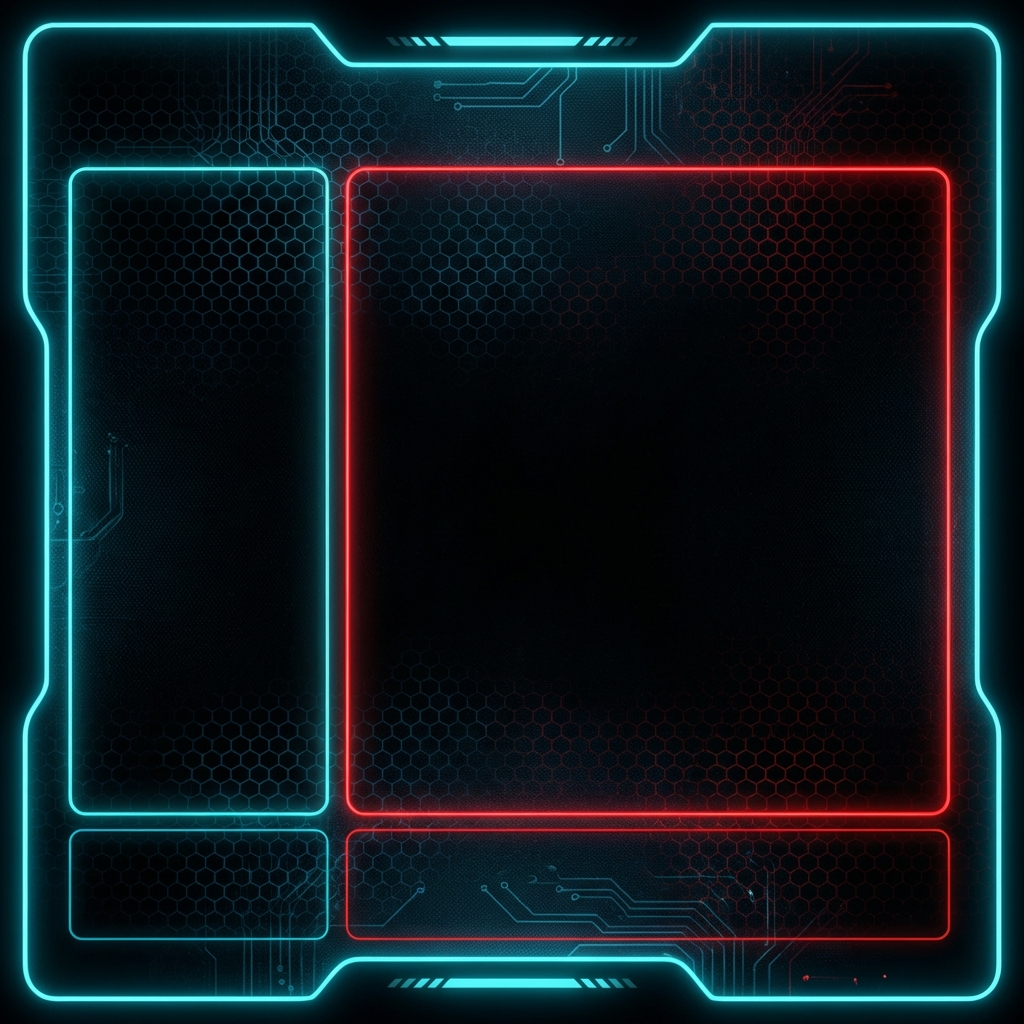
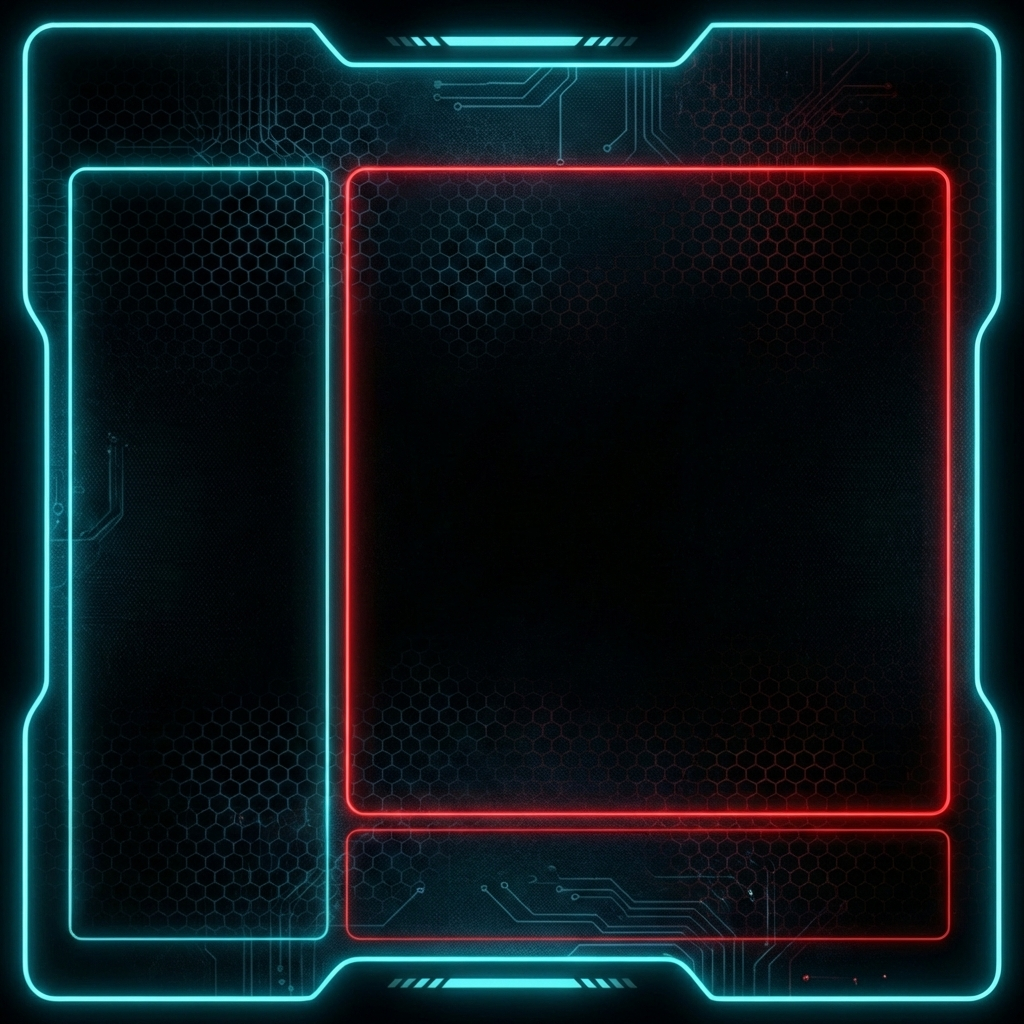
Minor fixes to rds element placement.  Removed the driver search for now as no matter how hard we tried we could only get it to show up after inspecting it with the developer tools

Changed region(s): [[0.0625, 0.7812, 0.3438, 0.9375]]

diff --git a/client/src/app/components/raceday-setup/raceday-setup.component.html b/client/src/app/components/raceday-setup/raceday-setup.component.html
@@ -27,10 +27,11 @@
                 <!-- Selected Drivers (Draggable) -->
                 <div *ngIf="selectedDrivers.length > 0" class="section-divider">Racing</div>
 
-                <div *ngFor="let driver of selectedDrivers" class="driver-item selected" cdkDrag>
+                <div *ngFor="let driver of selectedDrivers; let i = index" class="driver-item selected" cdkDrag>
                     <div class="checkbox" (click)="toggleDriverSelection(driver, true)">
                         <div class="checkbox-icon">✓</div>
                     </div>
+                    <div class="driver-seed">({{ i + 1 }})</div>
                     <div class="driver-avatar">
                         <!-- Placeholder Avatar -->
                         <svg width="20" height="20" viewBox="0 0 24 24" fill="#ccc">
@@ -67,10 +68,6 @@
                     </div>
                 </div>
 
-            </div>
-
-            <div class="search-bar">
-                <input type="text" class="search-input" placeholder="Search drivers..." [(ngModel)]="driverSearchQuery">
             </div>
         </div>
 

diff --git a/client/src/app/components/raceday-setup/raceday-setup.component.css b/client/src/app/components/raceday-setup/raceday-setup.component.css
@@ -197,7 +197,7 @@
 /* --- Driver Panel (Left) - BLUE Framing --- */
 .driver-panel {
   width: 360px;
-  height: 820px;
+  height: 650px;
   flex-shrink: 0;
   border: none;
   box-shadow: none;
@@ -216,8 +216,6 @@
 .search-bar {
   padding: 15px 10px;
   border-top: 1px solid rgba(255, 255, 255, 0.1);
-  margin-top: 40px;
-  /* This gap pushes it into the bottom frame */
   height: 80px;
   display: flex;
   align-items: center;
@@ -235,8 +233,6 @@
 
 .driver-list-container {
   flex: 1;
-  height: 550px;
-  /* Fixed height for the top box area */
   overflow-y: auto;
   padding: 10px;
 }
@@ -298,6 +294,15 @@
   color: #000;
   font-size: 14px;
   font-weight: bold;
+}
+
+.driver-seed {
+  min-width: 25px;
+  text-align: center;
+  color: #888;
+  margin-right: 8px;
+  font-size: 16px;
+  font-weight: 600;
 }
 
 .driver-avatar {
@@ -480,7 +485,7 @@
   border: 1px solid #00f0ff;
   border-radius: 6px;
   box-shadow: 0 10px 30px rgba(0, 0, 0, 0.8), 0 0 20px rgba(0, 240, 255, 0.2);
-  max-height: 250px;
+  max-height: 185px;
   overflow-y: auto;
   z-index: 101;
 }

diff --git a/server/src/main/java/com/antigravity/service/DatabaseService.java b/server/src/main/java/com/antigravity/service/DatabaseService.java
@@ -34,14 +34,43 @@ public class DatabaseService {
         resetSequence(database, "drivers");
 
         List<Driver> initialDrivers = new ArrayList<>();
-        initialDrivers.add(new Driver("Abby", "Angel", getNextSequence(database, "drivers"), null));
-        initialDrivers.add(new Driver("Andrea", "The Pants", getNextSequence(database, "drivers"), null));
-        initialDrivers.add(new Driver("Austin", "Fart Goblin", getNextSequence(database, "drivers"), null));
-        initialDrivers.add(new Driver("Christine", "Peo Fuente", getNextSequence(database, "drivers"), null));
-        initialDrivers.add(new Driver("Dave", "Olden McGroin", getNextSequence(database, "drivers"), null));
-        initialDrivers.add(new Driver("Gene", "Swamper Gene", getNextSequence(database, "drivers"), null));
-        initialDrivers.add(new Driver("Meyer", "Bull Dog", getNextSequence(database, "drivers"), null));
-        initialDrivers.add(new Driver("Noah Jack", "Boy Wonder", getNextSequence(database, "drivers"), null));
+        // initialDrivers.add(new Driver("Abby", "Angel", getNextSequence(database,
+        // "drivers"), null));
+        // initialDrivers.add(new Driver("Andrea", "The Pants",
+        // getNextSequence(database, "drivers"), null));
+        // initialDrivers.add(new Driver("Austin", "Fart Goblin",
+        // getNextSequence(database, "drivers"), null));
+        // initialDrivers.add(new Driver("Christine", "Peo Fuente",
+        // getNextSequence(database, "drivers"), null));
+        // initialDrivers.add(new Driver("Dave", "Olden McGroin",
+        // getNextSequence(database, "drivers"), null));
+        // initialDrivers.add(new Driver("Gene", "Swamper Gene",
+        // getNextSequence(database, "drivers"), null));
+        // initialDrivers.add(new Driver("Meyer", "Bull Dog", getNextSequence(database,
+        // "drivers"), null));
+        // initialDrivers.add(new Driver("Noah Jack", "Boy Wonder",
+        // getNextSequence(database, "drivers"), null));
+
+        initialDrivers.add(new Driver("Driver 01", "Driver 01", getNextSequence(database, "drivers"), null));
+        initialDrivers.add(new Driver("Driver 02", "Driver 02", getNextSequence(database, "drivers"), null));
+        initialDrivers.add(new Driver("Driver 03", "Driver 03", getNextSequence(database, "drivers"), null));
+        initialDrivers.add(new Driver("Driver 04", "Driver 04", getNextSequence(database, "drivers"), null));
+        initialDrivers.add(new Driver("Driver 05", "Driver 05", getNextSequence(database, "drivers"), null));
+        initialDrivers.add(new Driver("Driver 06", "Driver 06", getNextSequence(database, "drivers"), null));
+        initialDrivers.add(new Driver("Driver 07", "Driver 07", getNextSequence(database, "drivers"), null));
+        initialDrivers.add(new Driver("Driver 08", "Driver 08", getNextSequence(database, "drivers"), null));
+        initialDrivers.add(new Driver("Driver 09", "Driver 09", getNextSequence(database, "drivers"), null));
+        initialDrivers.add(new Driver("Driver 10", "Driver 10", getNextSequence(database, "drivers"), null));
+        initialDrivers.add(new Driver("Driver 11", "Driver 11", getNextSequence(database, "drivers"), null));
+        initialDrivers.add(new Driver("Driver 12", "Driver 12", getNextSequence(database, "drivers"), null));
+        initialDrivers.add(new Driver("Driver 13", "Driver 13", getNextSequence(database, "drivers"), null));
+        initialDrivers.add(new Driver("Driver 14", "Driver 14", getNextSequence(database, "drivers"), null));
+        initialDrivers.add(new Driver("Driver 15", "Driver 15", getNextSequence(database, "drivers"), null));
+        initialDrivers.add(new Driver("Driver 16", "Driver 16", getNextSequence(database, "drivers"), null));
+        initialDrivers.add(new Driver("Driver 17", "Driver 17", getNextSequence(database, "drivers"), null));
+        initialDrivers.add(new Driver("Driver 18", "Driver 18", getNextSequence(database, "drivers"), null));
+        initialDrivers.add(new Driver("Driver 19", "Driver 19", getNextSequence(database, "drivers"), null));
+        initialDrivers.add(new Driver("Driver 20", "Driver 20", getNextSequence(database, "drivers"), null));
 
         driverCollection.insertMany(initialDrivers);
         System.out.println("Drivers reset.");
@@ -119,6 +148,44 @@ public class DatabaseService {
         race = new Race("Practice", track.getEntityId(), HeatRotationType.RoundRobin,
                 scoring, getNextSequence(database, "races"), null);
 
+        raceCollection.insertOne(race);
+
+        scoring = new com.antigravity.models.RaceScoring(
+                com.antigravity.models.RaceScoring.FinishMethod.Lap,
+                15,
+                com.antigravity.models.RaceScoring.HeatRanking.LAP_COUNT,
+                com.antigravity.models.RaceScoring.HeatRankingTiebreaker.FASTEST_LAP_TIME);
+
+        // Now just a bunch of races to fill the space
+        race = new Race("Race 01", track.getEntityId(), HeatRotationType.RoundRobin,
+                scoring, getNextSequence(database, "races"), null);
+        raceCollection.insertOne(race);
+        race = new Race("Race 02", track.getEntityId(), HeatRotationType.RoundRobin,
+                scoring, getNextSequence(database, "races"), null);
+        raceCollection.insertOne(race);
+        race = new Race("Race 03", track.getEntityId(), HeatRotationType.RoundRobin,
+                scoring, getNextSequence(database, "races"), null);
+        raceCollection.insertOne(race);
+        race = new Race("Race 04", track.getEntityId(), HeatRotationType.RoundRobin,
+                scoring, getNextSequence(database, "races"), null);
+        raceCollection.insertOne(race);
+        race = new Race("Race 05", track.getEntityId(), HeatRotationType.RoundRobin,
+                scoring, getNextSequence(database, "races"), null);
+        raceCollection.insertOne(race);
+        race = new Race("Race 06", track.getEntityId(), HeatRotationType.RoundRobin,
+                scoring, getNextSequence(database, "races"), null);
+        raceCollection.insertOne(race);
+        race = new Race("Race 07", track.getEntityId(), HeatRotationType.RoundRobin,
+                scoring, getNextSequence(database, "races"), null);
+        raceCollection.insertOne(race);
+        race = new Race("Race 08", track.getEntityId(), HeatRotationType.RoundRobin,
+                scoring, getNextSequence(database, "races"), null);
+        raceCollection.insertOne(race);
+        race = new Race("Race 09", track.getEntityId(), HeatRotationType.RoundRobin,
+                scoring, getNextSequence(database, "races"), null);
+        raceCollection.insertOne(race);
+        race = new Race("Race 10", track.getEntityId(), HeatRotationType.RoundRobin,
+                scoring, getNextSequence(database, "races"), null);
         raceCollection.insertOne(race);
 
         System.out.println("Races reset.");
